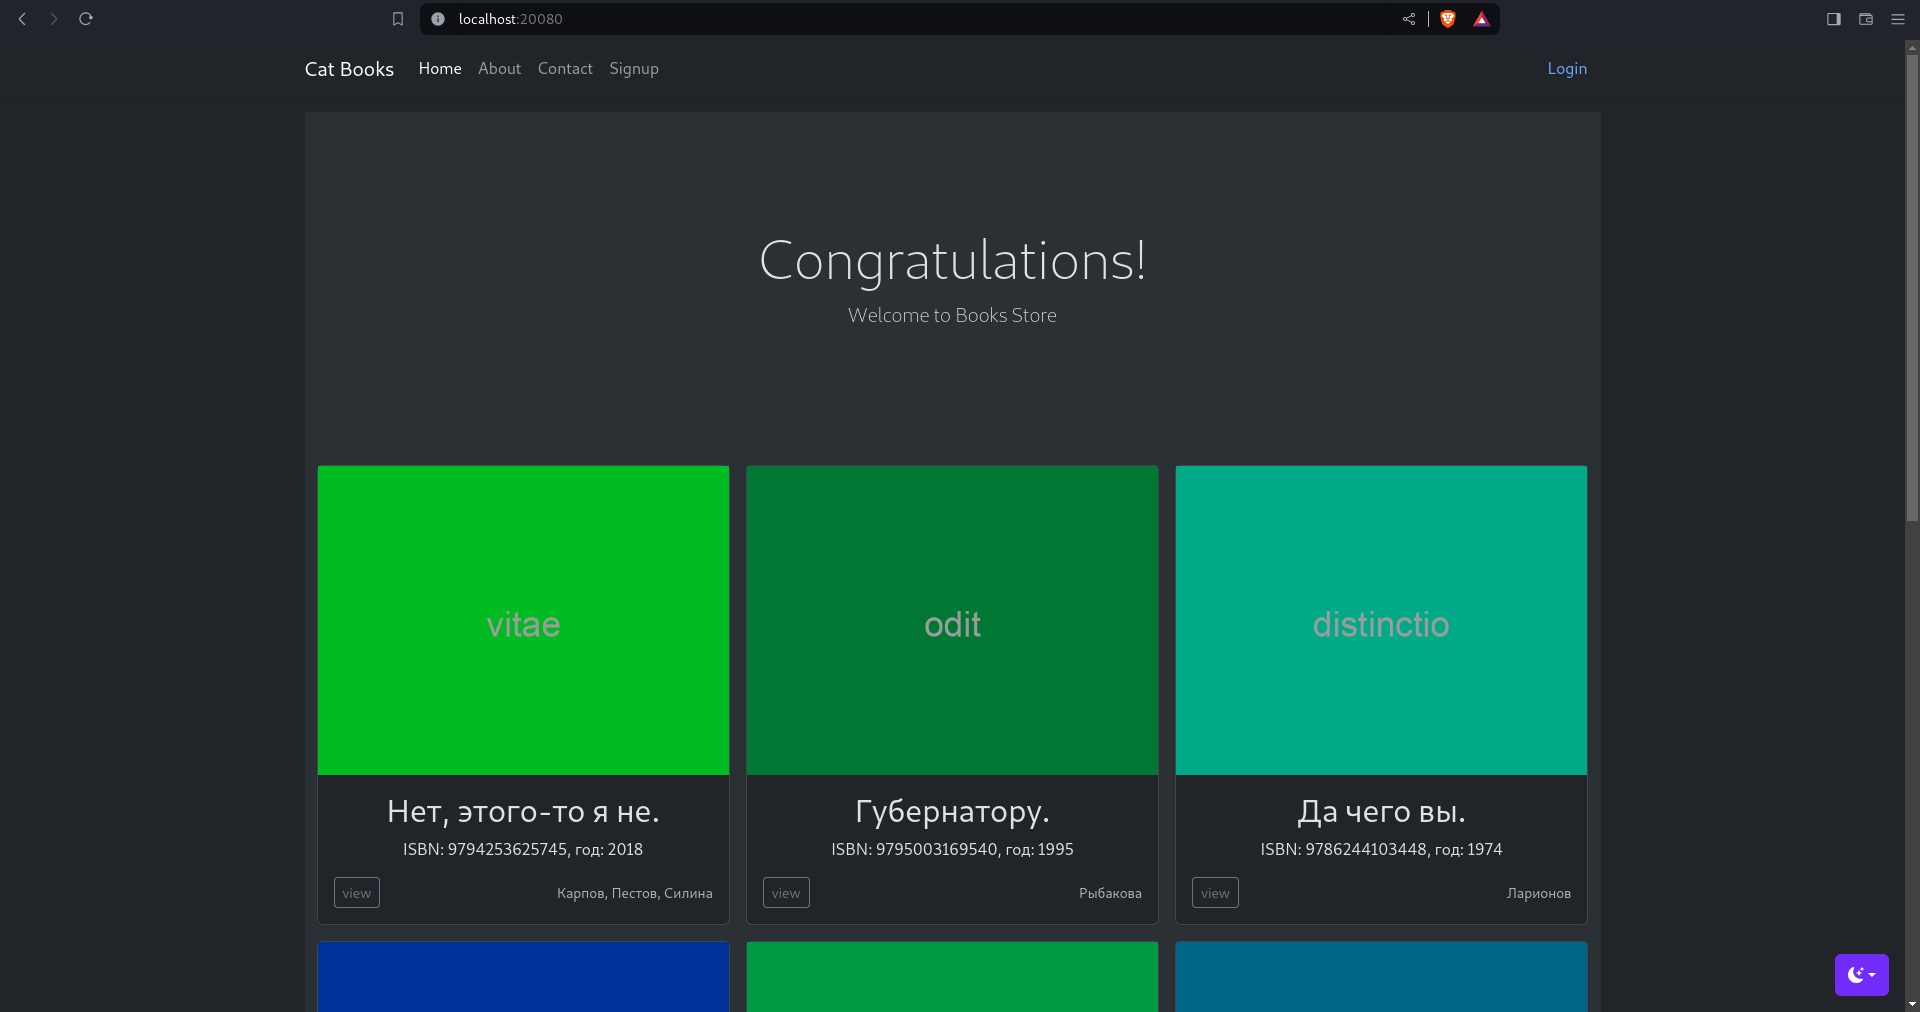
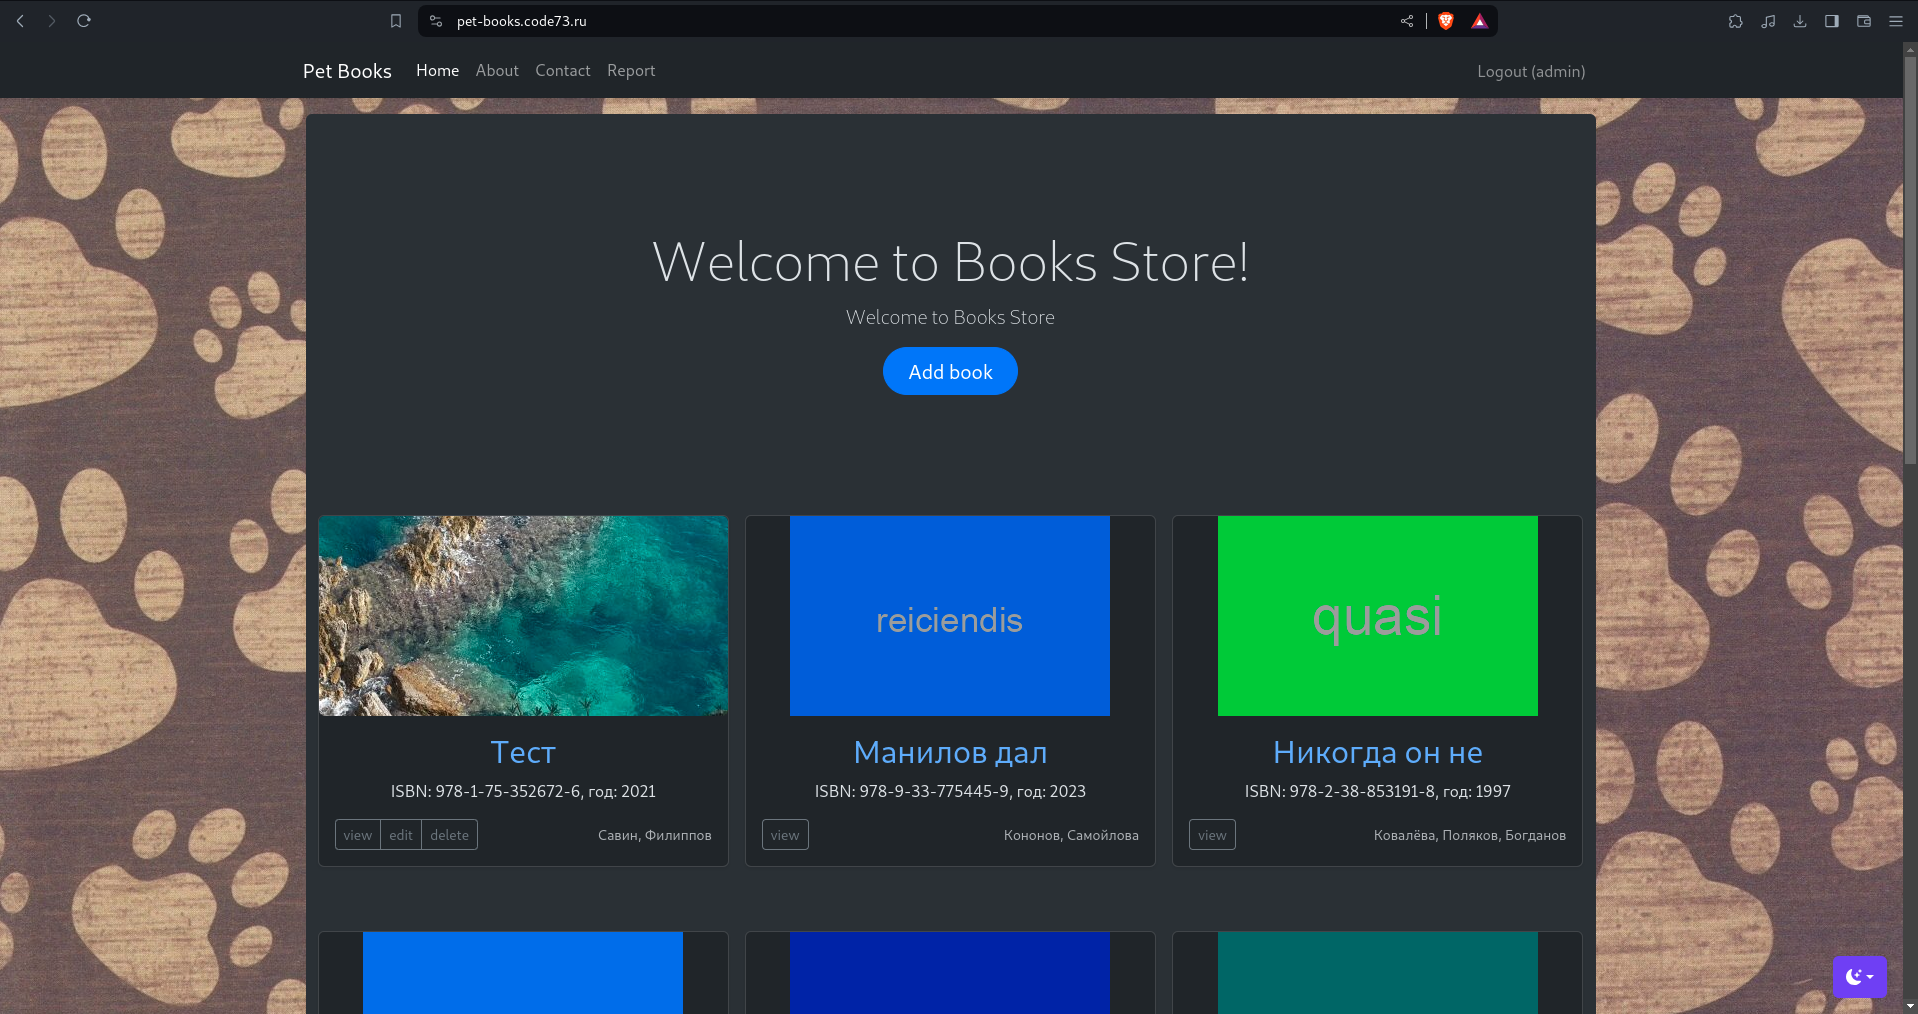
update README.md with link and new photo

diff --git a/README.md b/README.md
@@ -2,6 +2,8 @@
 
 <img src="screen1.png" alt="">
 
+### Live demo: https://pet-books.code73.ru
+
 ## Installation notes
 
 ### To run in docker:
